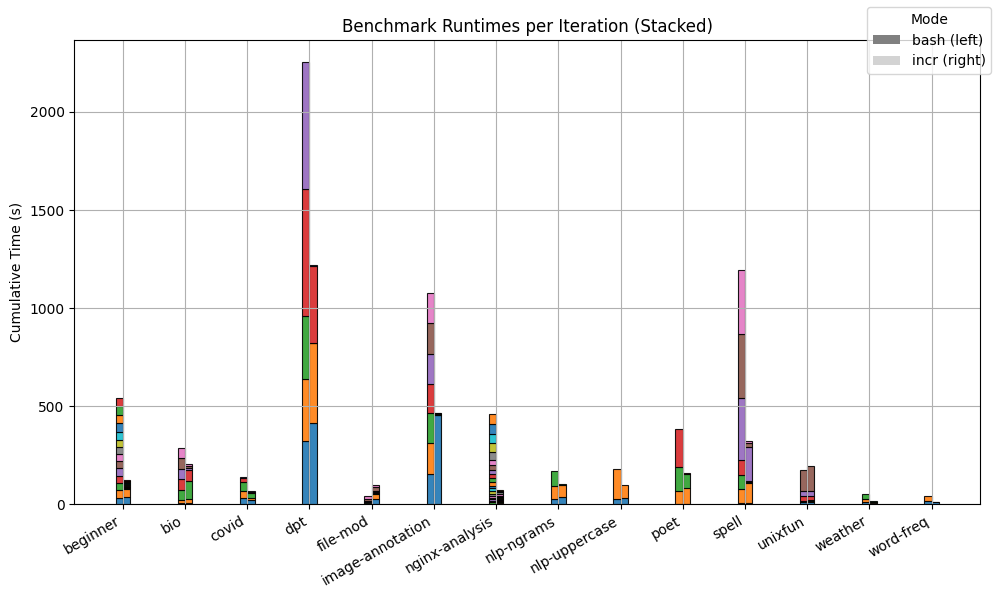
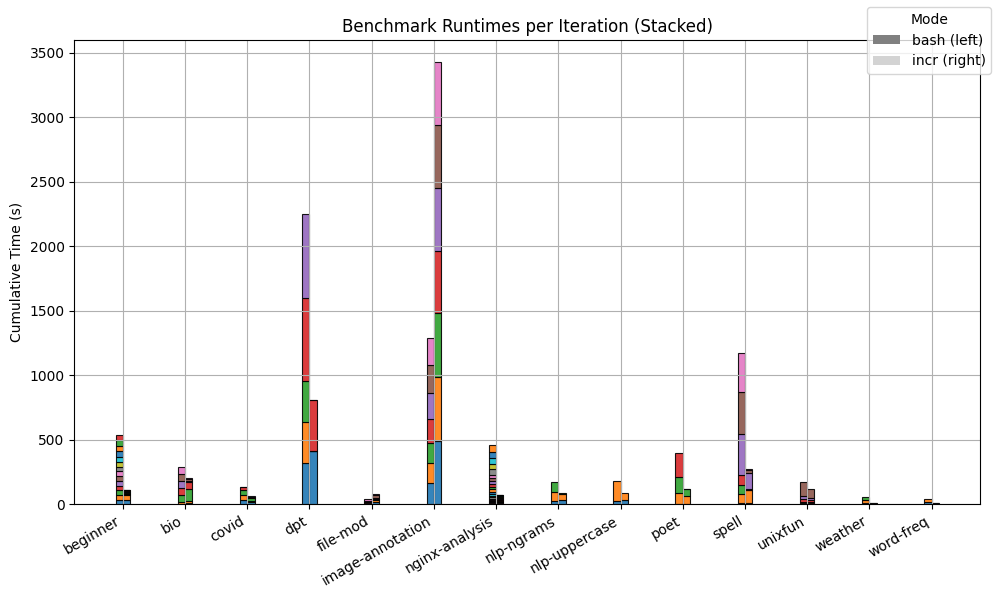
plot

diff --git a/evaluation/analysis/plot.py b/evaluation/analysis/plot.py
@@ -20,6 +20,7 @@ BENCHMARKS = [
     "weather",
     "word-freq",
 ]
+DIRECTORY = "../annotation_results/annotation_1"
 
 figure, axes = plt.subplots(figsize=(10, 6))
 axes.grid()
@@ -28,7 +29,7 @@ width = 0.35  # Bar width
 all_colors = matplotlib.colormaps.get_cmap("tab10")
 
 for i, benchmark in enumerate(BENCHMARKS):
-    data = pd.read_csv(f"../default_results/default_1/{benchmark}-time.csv")
+    data = pd.read_csv(f"{DIRECTORY}/{benchmark}-time.csv")
 
     # Get per-iteration times
     bash_times = data[data["mode"] == "bash"]["time_sec"].values
@@ -81,7 +82,7 @@ axes.set_title("Benchmark Runtimes per Iteration (Stacked)")
 # Iteration colors
 # get the max number of iterations across all benchmarks
 num_iters = max(
-    pd.read_csv(f"../default_results/default_1/{benchmark}-time.csv")["mode"].value_counts().max()
+    pd.read_csv(f"{DIRECTORY}/{benchmark}-time.csv")["mode"].value_counts().max()
     for benchmark in BENCHMARKS
 )
 iter_patches = [
